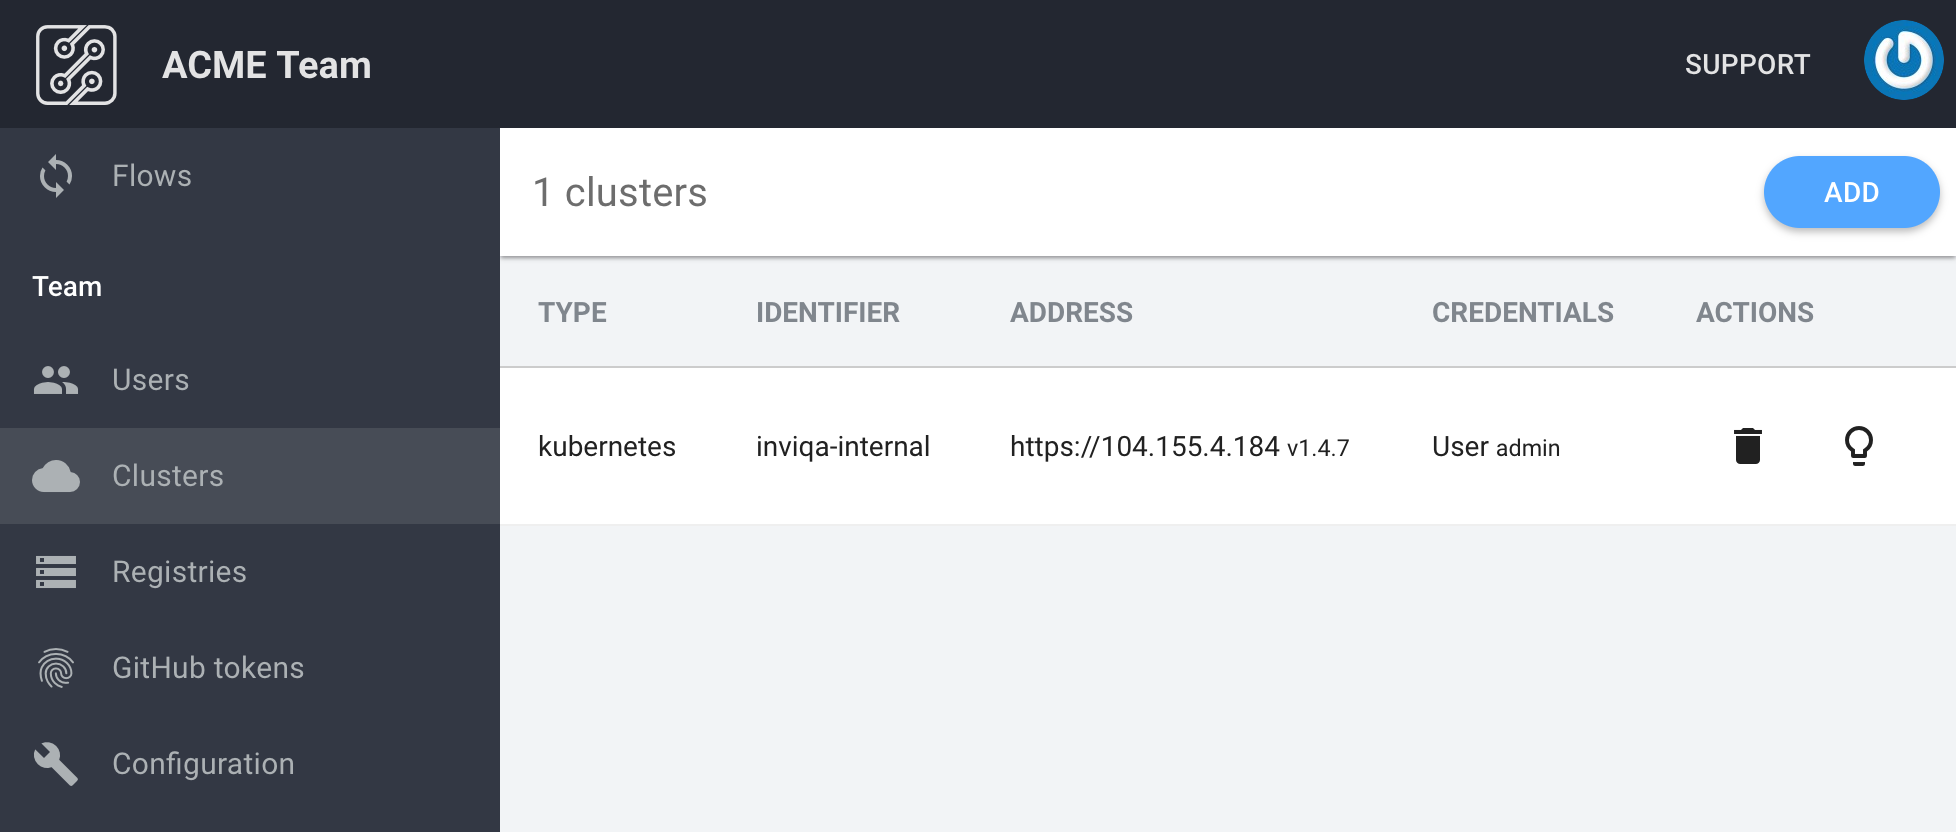
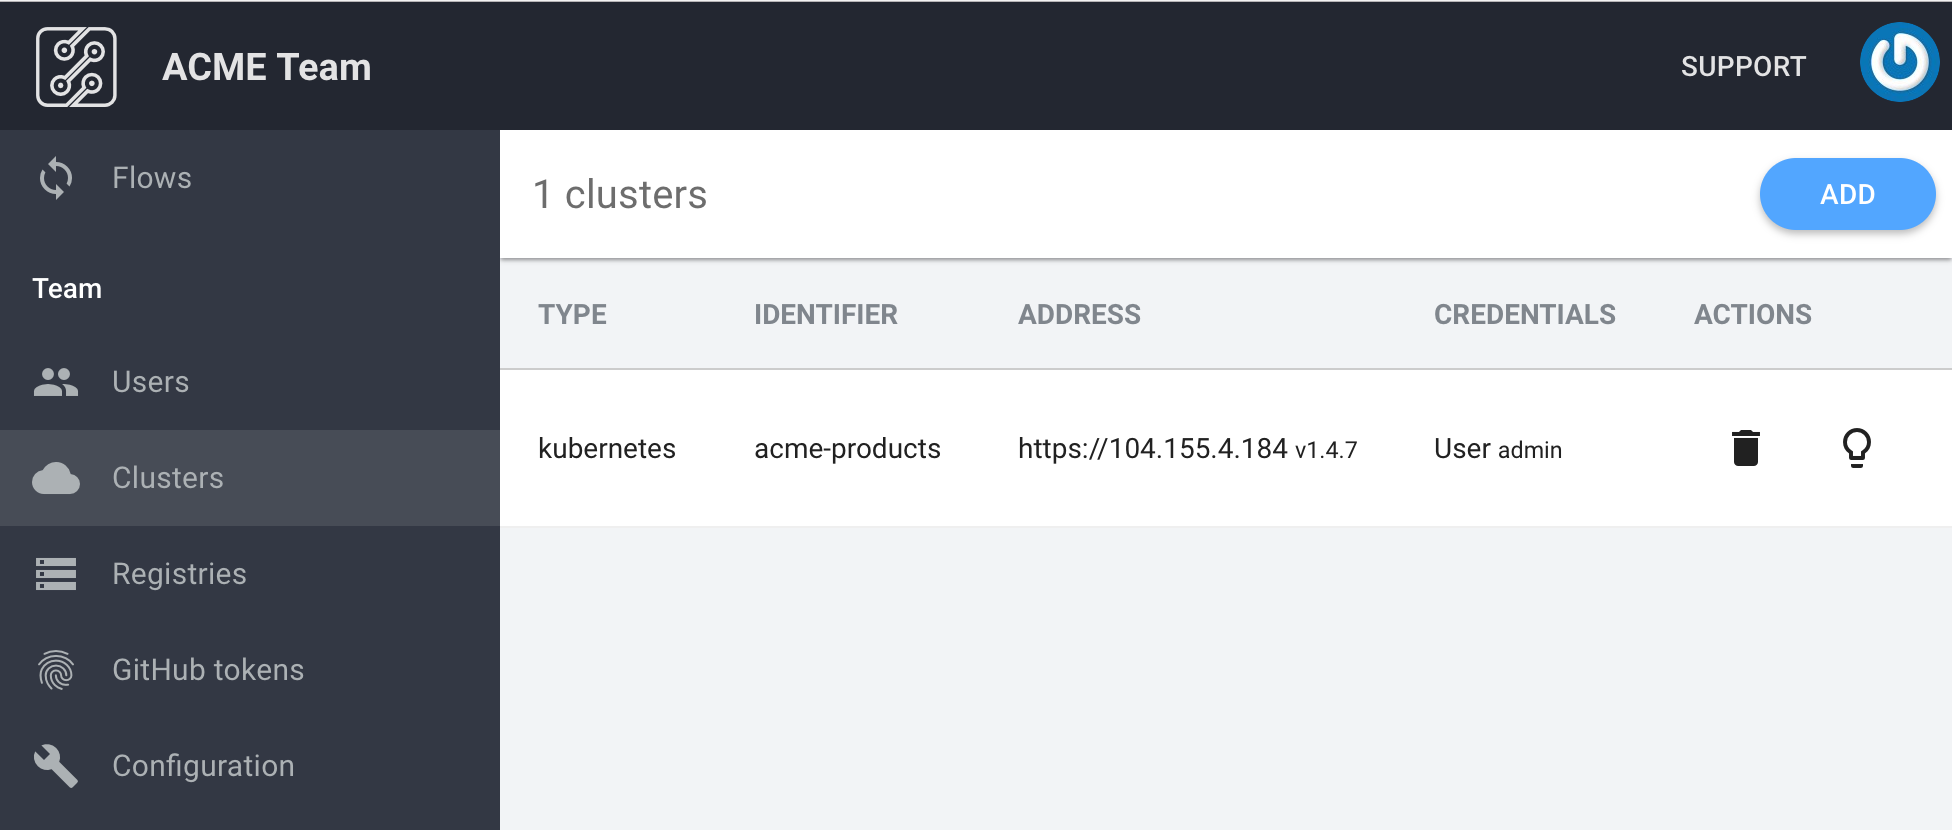
Quick start guide.

diff --git a/content/quick-start/configuring-your-repository.md b/content/quick-start/configuring-your-repository.md
@@ -1,0 +1,76 @@
+---
+title: Configuring Your Repository
+menu:
+  main:
+    parent: 'quick-start'
+    weight: 50
+---
+At this stage you should have a fully configured Team, so it's time to configure your code repository by adding the configuration files that are needed to build a Docker image and set up ContinuousPipe deployments.
+
+```
+.
+├── Dockerfile
+├── continuous-pipe.yml
+└── docker-compose.yml
+```
+
+## Add a Dockerfile
+
+The first step is to add a `Dockerfile` to the root directory of your project. This file contains a series of commands that are combined to build a Docker image.
+
+```
+FROM nginx
+
+COPY . /usr/share/nginx/html
+```
+
+This very basic `Dockerfile` will add an `nginx` web server container to the Docker image and copy the contents of the code repository into the web server default content directory.
+
+See https://docs.docker.com/engine/reference/builder/ for full documentation.
+
+## Add a docker-compose.yml
+
+The next step is to add a `docker-compose.yml` to the root directory of your project. This file contains YAML configuration for the services, networks and volumes of a Docker image.
+
+```
+web:
+    build: .
+    expose:
+        - 80
+```
+
+This YAML will configure the web service to run on port 80.
+
+See https://docs.docker.com/compose/compose-file/ for full documentation.
+
+## Add a continuous-pipe.yml
+
+The next step is to add a `continuous-pipe.yml` to the root directory of your project. This file contains YAML configuration relating to the deployment of a Docker image.
+
+```
+tasks:
+    images:
+        build:
+            services:
+                web:
+                    image: docker.io/pswaine/acme-anvils
+
+    deployment:
+        deploy:
+            cluster: acme-products
+            services:
+                web:
+                    specification:
+                        accessibility:
+                            from_external: true
+```
+
+This YAML does the following:
+
+- it will configure the Docker image to be called `acme-anvils` and stored in an account at docker.io
+- it will configure the Docker image to be deployed to the `acme-products` cluster - this cluster identifier is defined when [configuring a cluster]({{< relref "configuring-a-cluster.md" >}})
+- it will configure the Kubernetes cluster to create a public load-balancer for the web service allowing public access
+
+See [configuring deployments]({{< relref "configuration/deployments.md" >}}) for more documentation.
+
+**These new configuration files then need pushing to your code repository so that ContinuousPipe can read them.**

diff --git a/content/quick-start/creating-a-flow.md b/content/quick-start/creating-a-flow.md
@@ -14,7 +14,7 @@ To create a Flow, just click the “CREATE A FLOW” button in the top right of 
 
 The first time you attempt to create a Flow you will see a message informing you that you don't have a linked repository account.
 
-![](/images/quick-start/flow-view-create-a-flow-no-repo.png)
+![](/images/quick-start/flow-create-a-flow-no-repo.png)
 
 To solve this, either click on the link provided in the page or navigate to the account section using the menu in the top right of the header. Within the account section you will see the option to connect to a repository under the "Connected accounts" heading. 
 
@@ -30,10 +30,10 @@ Each of these options will forward you to the respective provider to sign in and
 
 Once permissions have been granted you will be returned to ContinuousPipe. You'll need to reselect the Team, then click “CREATE A FLOW” again. This time you will be able to choose a repository from the associated repository account. 
 
-![](/images/quick-start/flow-view-create-a-flow-choose-repo.png)
+![](/images/quick-start/flow-create-a-flow-choose-repo.png)
 
 By default your personal repositories from the linked account are displayed. If the linked account is a member of an Organisation these are also visible below. Clicking on each respective Organisation will load a list of available repositories.
 
 Once you have selected your repository, click "CREATE" to finish creating the Flow.
 
-![](/images/quick-start/flow-overview.png)
+![](/images/quick-start/team-flow-overview.png)

diff --git a/content/quick-start/configuring-a-flow.md b/content/quick-start/configuring-a-flow.md
@@ -1,0 +1,37 @@
+---
+title: Configuring a Flow
+menu:
+  main:
+    parent: 'quick-start'
+    weight: 60
+---
+The final step before executing the Flow is to configure it. You can do this by clicking on the Flow, then selecting the "Configuration" tab. This will present you with an interface that allows you to define YAML variables.
+ 
+![](/images/quick-start/flow-configuration-no-config.png)
+
+We are going to variablise the cluster identifier. The cluster identifier is defined when [configuring a cluster]({{< relref "configuring-a-cluster.md" >}}) then referenced in the `continuous-pipe.yml` when [configuring your repository]({{< relref "configuring-your-repository.md" >}}).
+
+To create the variable click "ADD A VARIABLE" and then enter:
+
+- **Name**: "CLUSTER"
+- **Value**: "acme-products"
+
+Then click "SAVE".
+
+![](/images/quick-start/flow-configuration-overview.png)
+
+The cluster note in `continuous-pipe.yml` can now be updated:
+
+```
+tasks:
+    deployment:
+        deploy:
+            cluster: ${CLUSTER}
+            services:
+                web:
+                    specification:
+                        accessibility:
+                            from_external: true
+```
+
+This will now reference the variable in the Flow configuration value instead of the hard coded value used previously.

diff --git a/content/quick-start/creating-a-tide.md b/content/quick-start/creating-a-tide.md
@@ -1,0 +1,12 @@
+---
+title: Creating a Tide
+menu:
+  main:
+    parent: 'quick-start'
+    weight: 70
+---
+The Flow is now ready to run. An execution of a Flow is called a Tide.
+
+![](/images/quick-start/flow-overview-no-tide.png)
+
+The easiest way to create the Tide is to run it manually. To do this click the "START MANUALLY" button in the top right of the interface.
